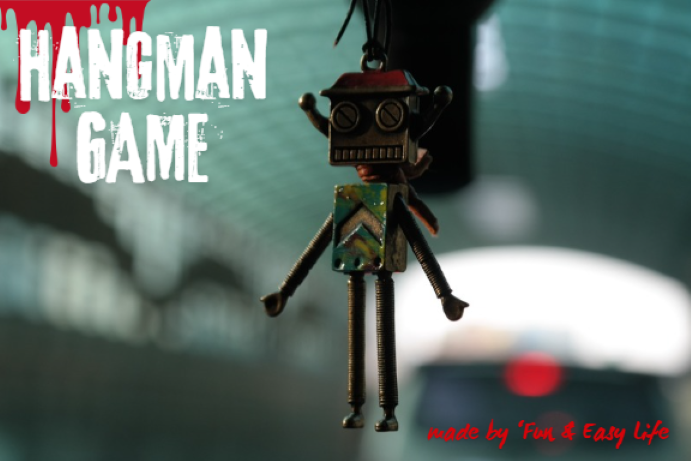
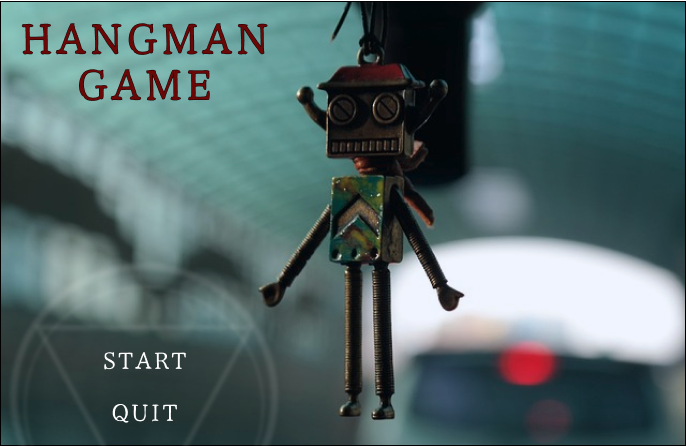
GitHub Third Commit

diff --git a/src/WindowBuilder/startpage.java b/src/WindowBuilder/startpage.java
@@ -14,11 +14,13 @@ import java.sql.SQLException;
 public class startpage extends JFrame {
 
 	private JPanel contentPane;
-
+	JLabel lblNewLabel = new JLabel("");
+	Main_Page main = new Main_Page();
+	
 	/**
 	 * Create the frame.
 	 */
-	public startpage(String id) {
+	public startpage(String id) throws ClassNotFoundException, SQLException {
 		
 		System.out.println(id);
 		
@@ -33,40 +35,74 @@ public class startpage extends JFrame {
 		setContentPane(contentPane);
 		contentPane.setLayout(null);
 		
-			JButton btn_start = new JButton("게임 시작");
-			btn_start.setFocusPainted(false);
-			btn_start.setBorder(null);
-			btn_start.setBorderPainted(false);
-			btn_start.addMouseListener(new MouseAdapter() {
-				@Override
-				public void mouseClicked(MouseEvent e) {
-					String id1 = id;
-					
-					gamepage secondwindow;
-					
-					try {
-						secondwindow = new gamepage(id1);
-						
-						dispose();
-						
-						setVisible(false);
-						
-						secondwindow.setVisible(true);
-					} catch (ClassNotFoundException e1) {
-						e1.printStackTrace();
-					} catch (SQLException e1) {
-						e1.printStackTrace();
-					}
-				}
-			});
-			
-			btn_start.setIcon(new ImageIcon(startpage.class.getResource("/Image/start.png")));
-			btn_start.setBounds(96, 190, 102, 30);
-			contentPane.add(btn_start);
-		
-		JLabel lblNewLabel = new JLabel("");
 		lblNewLabel.setIcon(new ImageIcon(startpage.class.getResource("/Image/hangman_mainpage.png")));
 		lblNewLabel.setBounds(0, 0, 686, 446);
 		contentPane.add(lblNewLabel);
+		
+		JButton btn_start = new JButton(""); // 게임 시작 버튼
+		btn_start.addMouseListener(new MouseAdapter() { // 버튼 클릭 이벤트(게임 창으로 넘어감)
+			@Override
+			public void mouseClicked(MouseEvent e) {
+				gamepage secondwindow;
+				
+				try {
+					secondwindow = new gamepage(id);
+					
+					dispose();
+					
+					setVisible(false);
+					
+					secondwindow.setVisible(true);
+				} catch (ClassNotFoundException e1) {
+					e1.printStackTrace();
+				} catch (SQLException e1) {
+					e1.printStackTrace();
+				}
+			}
+			
+			@Override
+			public void mouseEntered(MouseEvent e) { // 마우스가 버튼 안으로 들어오면 발생하는 이벤트(이미지 변경)
+				lblNewLabel.setIcon(new ImageIcon(startpage.class.getResource("/Image/hangman_start_mouseenter.png")));
+			}
+			
+			@Override
+			public void mouseExited(MouseEvent e) { // 마우스가 버튼 밖으로 나가면 발생하는 이벤트(이미지 변경)
+				lblNewLabel.setIcon(new ImageIcon(startpage.class.getResource("/Image/hangman_mainpage.png")));
+			}
+		});
+		
+		btn_start.setOpaque(false);
+		btn_start.setBounds(93, 342, 103, 38);
+		contentPane.add(btn_start);
+		
+		JButton btn_quit = new JButton(""); // 게임 나가기 버튼
+		btn_quit.addMouseListener(new MouseAdapter() {
+			@Override
+			public void mouseClicked(MouseEvent e) {
+				main.welcome_label.setText(id + "님 환영합니다!");
+    			
+    			main.str = id;
+    			
+    			dispose();
+    			
+    			setVisible(false);
+    			
+    			main.setVisible(true);
+			}
+			
+			@Override
+			public void mouseEntered(MouseEvent e) { // 마우스가 버튼 안으로 들어오면 발생하는 이벤트(이미지 변경)
+				lblNewLabel.setIcon(new ImageIcon(startpage.class.getResource("/Image/hangman_quit_mouseenter.png")));
+			}
+			
+			@Override
+			public void mouseExited(MouseEvent e) { // 마우스가 버튼 밖으로 나가면 발생하는 이벤트(이미지 변경)
+				lblNewLabel.setIcon(new ImageIcon(startpage.class.getResource("/Image/hangman_mainpage.png")));
+			}
+		});
+		
+		btn_quit.setOpaque(false);
+		btn_quit.setBounds(93, 390, 103, 46);
+		contentPane.add(btn_quit);
 	}
 }

diff --git a/src/WindowBuilder/NumberGame.java b/src/WindowBuilder/NumberGame.java
@@ -36,6 +36,7 @@ public class NumberGame extends JFrame {
    int answercnt_1;
    int count = 1;
    JButton nextQuiz;
+   JButton btn_input_score;
    
    Main_Page main = new Main_Page();
 
@@ -102,7 +103,7 @@ public class NumberGame extends JFrame {
       AnswerInputField = new JTextField(); // 정답 입력 TextField
       AnswerInputField.setBorder(null);
       AnswerInputField.setHorizontalAlignment(SwingConstants.CENTER);
-      AnswerInputField.setFont(new Font("굴림", Font.BOLD, 12));
+      AnswerInputField.setFont(new Font("굴림", Font.BOLD, 20));
       AnswerInputField.setBounds(319, 365, 173, 64);
       contentPane.add(AnswerInputField);
       AnswerInputField.setColumns(10);
@@ -149,7 +150,7 @@ public class NumberGame extends JFrame {
       AnswerCnt_1 = new JTextField();
       AnswerCnt_1.setBorder(BorderFactory.createEmptyBorder());
       AnswerCnt_1.setHorizontalAlignment(SwingConstants.CENTER);
-      AnswerCnt_1.setFont(new Font("굴림", Font.BOLD, 16));
+      AnswerCnt_1.setFont(new Font("굴림", Font.BOLD, 20));
       AnswerCnt_1.setBounds(112, 457, 113, 37);
       contentPane.add(AnswerCnt_1);
       AnswerCnt_1.setColumns(10);
@@ -180,7 +181,8 @@ public class NumberGame extends JFrame {
             if(count == 11) {
                JOptionPane.showMessageDialog(null, "10문제 끝~!" + "\n점수는 : " + answercnt_1*10 );
                btn_answer_check.setEnabled(false);
-                  nextQuiz.setEnabled(false);
+               nextQuiz.setEnabled(false);
+               btn_input_score.setVisible(true);
             } else {
                if (operato == '+') {
                   Answer = num1 + num2;
@@ -202,13 +204,14 @@ public class NumberGame extends JFrame {
       nextQuiz.setBounds(449, 439, 68, 66);
       contentPane.add(nextQuiz);
       
-      JButton btn_input_score = new JButton("Update");
+      btn_input_score = new JButton("Update");
       btn_input_score.setForeground(new Color(207, 182, 92));
       btn_input_score.setFont(new Font("Arial", Font.BOLD, 30));
       
       btn_input_score.setBorderPainted(false); 
       btn_input_score.setContentAreaFilled(false); 
       btn_input_score.setFocusPainted(false);
+      btn_input_score.setVisible(false);
       
          btn_input_score.addMouseListener(new MouseAdapter() {
             @Override

diff --git a/src/DAO/MemberDAO.java b/src/DAO/MemberDAO.java
@@ -4,23 +4,21 @@ import java.sql.Connection;
 import java.sql.PreparedStatement;
 import java.sql.ResultSet;
 import java.sql.SQLException;
-import java.util.ArrayList;
 
 import DBConnect.DBConnection;
-import VO.MemberVO;
 
 public class MemberDAO { // DB Query 수행 Class
 	Connection con;
 	PreparedStatement pstmt = null;
 	ResultSet rs = null;
+	String id1;
+	String pw1;
 		
 	public MemberDAO() throws ClassNotFoundException, SQLException {
 		con = new DBConnection().getConnection();
 	}
 	
-	public ArrayList<MemberVO> login(String id, String pw) throws SQLException { // 로그인
-		ArrayList<MemberVO> list = new ArrayList<MemberVO>();
-		
+	public String login_id(String id, String pw) throws SQLException { // 로그인 ID
 		String sql = "SELECT * FROM member WHERE id = ? AND pw = ?";
 		
 		try {
@@ -32,18 +30,36 @@ public class MemberDAO { // DB Query 수행 Class
 			rs = pstmt.executeQuery();
 			
 			if(rs.next()) {
-				String id1 = rs.getString("id");
-				String pw1 = rs.getString("pw");
-				
-				MemberVO vo = new MemberVO(id1, pw1);
-				
-				list.add(vo);
+				id1 = rs.getString("id");
 			}
 		} catch(SQLException e) {
 			System.out.println("Login Error!");
 		}
 		
-		return list;
+		System.out.println(id1);
+		
+		return id1;
+	}
+	
+	public String login_pw(String id, String pw) throws SQLException { // 로그인 Password
+		String sql = "SELECT * FROM member WHERE id = ? AND pw = ?";
+		
+		try {
+			pstmt = con.prepareStatement(sql);
+			
+			pstmt.setString(1, id);
+			pstmt.setString(2, pw);
+			
+			rs = pstmt.executeQuery();
+			
+			if(rs.next()) {
+				pw1 = rs.getString("pw");
+			}
+		} catch(SQLException e) {
+			System.out.println("Login Error!");
+		}
+		
+		return pw1;
 	}
 	
 	public boolean register(String id, String pw, String name, String age, String gender, String tel, String address) { // 회원가입

diff --git a/src/WindowBuilder/Login.java b/src/WindowBuilder/Login.java
@@ -7,7 +7,6 @@ import javax.swing.JPanel;
 import javax.swing.border.EmptyBorder;
 
 import DAO.MemberDAO;
-import VO.MemberVO;
 
 import java.awt.Color;
 import javax.swing.JButton;
@@ -22,7 +21,6 @@ import javax.swing.JTextField;
 import java.awt.event.MouseAdapter;
 import java.awt.event.MouseEvent;
 import java.sql.SQLException;
-import java.util.ArrayList;
 
 import javax.swing.JPasswordField;
 
@@ -95,23 +93,21 @@ public class Login extends JFrame {
 					setVisible(true);
 				} else {
 					try {
-						ArrayList<MemberVO> list = dao.login(id, pw);
-						
-						for(MemberVO vo : list) {
-							if(id.equals(vo.getId()) && pw.equals(vo.getPw())) { // DB에서 가져온 ID, PW 값과 입력한 ID, PW 값이 일치하는지 확인
-								JOptionPane.showMessageDialog(null, "로그인 성공!");
+						if(id.equals(dao.login_id(id, pw)) && pw.equals(dao.login_pw(id, pw))) { // DB에서 가져온 ID, PW 값과 입력한 ID, PW 값이 일치하는지 확인
+							JOptionPane.showMessageDialog(null, "로그인 성공!");
+							
+							dispose();
 								
-								dispose();
-									
-								setVisible(false);
-								
-								main = new Main_Page();
-								main.setVisible(true); // 메인 페이지 표시
-								main.welcome_label.setText(id + "님 환영합니다!");	
-								main.str = id;
-							} else {
-								JOptionPane.showMessageDialog(null, "로그인 실패!");
-							}
+							setVisible(false);
+							
+							main = new Main_Page();
+							main.setVisible(true); // 메인 페이지 표시
+							main.welcome_label.setText(id + "님 환영합니다!");
+							main.str = id;
+						} else {
+							JOptionPane.showMessageDialog(null, "로그인 실패!");
+							
+							System.exit(0); // 강제 종료
 						}
 					} catch (Exception e1) {
 						JOptionPane.showMessageDialog(null, "로그인 오류!");

diff --git a/src/WindowBuilder/Main_Page.java b/src/WindowBuilder/Main_Page.java
@@ -144,7 +144,13 @@ public class Main_Page extends JFrame {
 				
 				setVisible(false);
 				
-				new startpage(id).setVisible(true); // Hangman 게임 시작 페이지 표시
+				try {
+					new startpage(id).setVisible(true); // Hangman 게임 시작 페이지 표시
+				} catch (ClassNotFoundException e1) {
+					e1.printStackTrace();
+				} catch (SQLException e1) {
+					e1.printStackTrace();
+				}
 			}
 		});
 		
@@ -181,20 +187,21 @@ public class Main_Page extends JFrame {
 					
 					CategoryPlot plot = chart.getCategoryPlot();
 					
-					chart.getTitle().setFont(new Font("굴림", Font.BOLD, 15));
+					chart.getTitle().setFont(new Font("맑은 고딕", Font.BOLD, 15)); // 차트 제목 설정
 					
-					chart.getLegend().setItemFont(new Font("굴림", Font.BOLD, 15));
+					chart.getLegend().setItemFont(new Font("맑은 고딕", Font.BOLD, 15)); // 차트 범례 설정
 					
-					plot.getDomainAxis().setLabelFont(new Font("굴림", Font.BOLD, 15));
+					plot.getDomainAxis().setLabelFont(new Font("맑은 고딕", Font.BOLD, 15)); // X축 Label 설정
 					
-					plot.getRangeAxis().setLabelFont(new Font("굴림", Font.BOLD, 15));
+					plot.getRangeAxis().setLabelFont(new Font("맑은 고딕", Font.BOLD, 15)); // Y축 Label 설정
 					
-					chart.setBackgroundPaint(Color.WHITE);
+					chart.setBackgroundPaint(Color.WHITE); // 차트 배경색 지정
 					
 					ChartFrame cf = new ChartFrame("게임 점수 합산 결과", chart); // Chart Frame 생성 및 Chart Frame에 차트 추가
 					
 					cf.pack();
 					cf.setSize(800, 500);
+					cf.setLocationRelativeTo(null);
 					cf.setVisible(true); // Chart Frame 표시
 				} catch (SQLException e1) {
 					JOptionPane.showMessageDialog(null, "차트를 생성할 수 없습니다!");

diff --git a/src/WindowBuilder/gamepage.java b/src/WindowBuilder/gamepage.java
@@ -28,6 +28,7 @@ public class gamepage extends JFrame {
 	private JTextField textField_oneletter;
 	private String enteredLetter = ""; // 입력된 글자를 저장할 변수
     private StringBuilder underscores; // 인스턴스 변수로 선언
+    JButton btninputscore;
     Main_Page main = new Main_Page();
 
 	final int life = 10; // 시도할 수 있는 횟수
@@ -172,9 +173,10 @@ public class gamepage extends JFrame {
         btnreplay.setBorder(BorderFactory.createLineBorder(new Color(226, 192, 215), 2));
         panel.add(btnreplay);
         
-        JButton btninputscore = new JButton("");
+        btninputscore = new JButton("");
         
         btninputscore.setContentAreaFilled(false);
+        btninputscore.setVisible(false);
         
         btninputscore.addMouseListener(new MouseAdapter() {
         	@Override
@@ -251,6 +253,7 @@ public class gamepage extends JFrame {
             	lblgameover.setText("GAME OVER");
             	lblsolutionmsg.setText("Answer: " + solution);
                 textField_oneletter.setEditable(false); // 더 이상 입력할 수 없게 함
+                btninputscore.setVisible(true);
             }
         }
 
@@ -263,6 +266,7 @@ public class gamepage extends JFrame {
         if (displayedText.equals(solution)) {
             lblmsg.setText(" YOU WIN ! ");
             textField_oneletter.setEditable(false); // 더 이상 입력할 수 없게 하기 위함
+            btninputscore.setVisible(true);
         }
     }
 	
